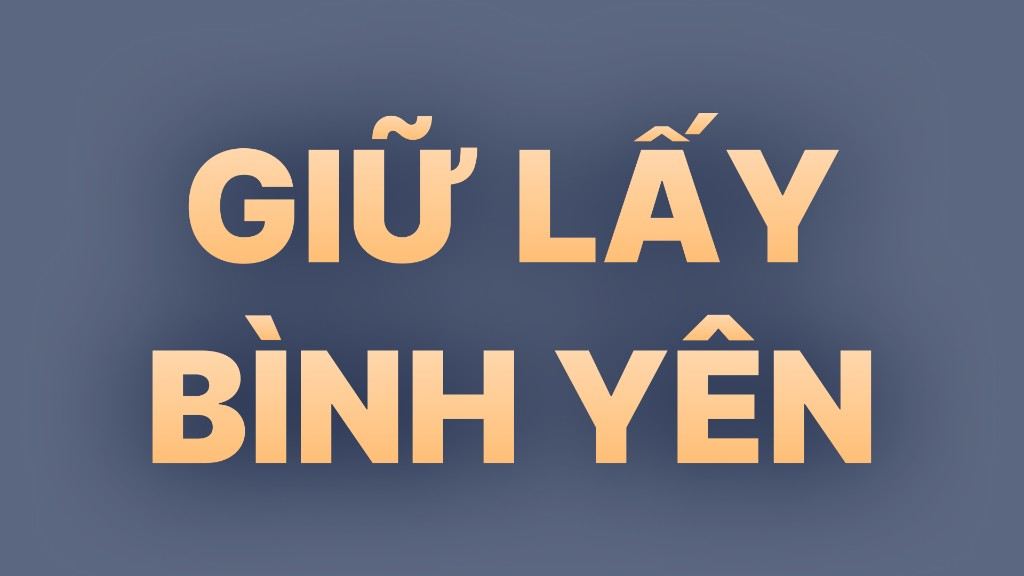
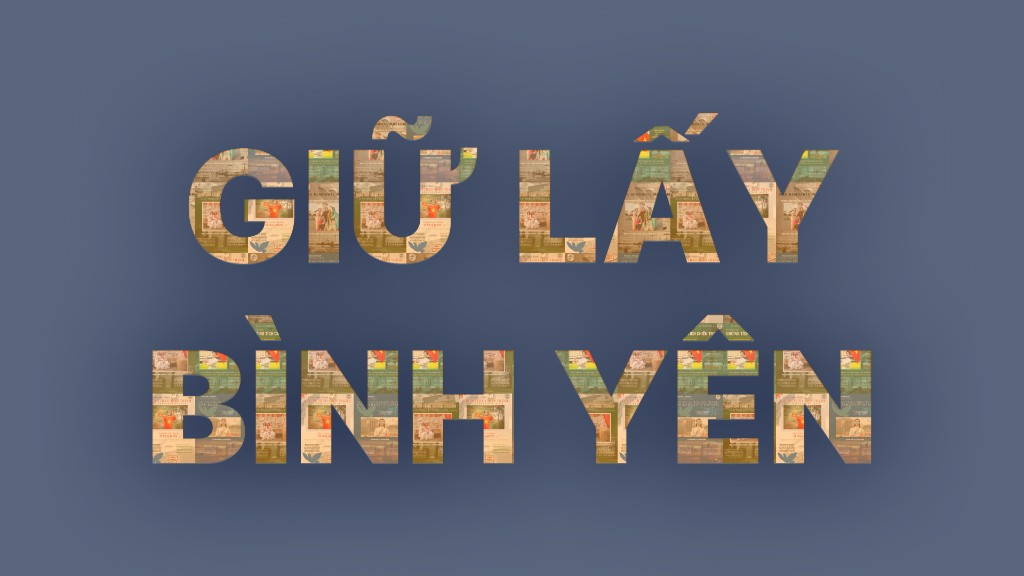
:sd1

diff --git a/components/WallBlendPanel.tsx b/components/WallBlendPanel.tsx
@@ -26,7 +26,7 @@ type Props = { apiUploadToken: string };
 export function WallBlendPanel({ apiUploadToken }: Props) {
   const { data, error, isLoading, mutate } = useSWR<WallTextPayload>("/api/wall-text", fetcher);
   const [blend, setBlend] = useState<WallGraphicBlendMode>(WALL_GRAPHIC_DEFAULT_BLEND);
-  /** 0–100 % hiển thị trên thanh trượt; lưu file dạng 0–1. */
+  /** 0–100 %; lưu file dạng 0–1. */
   const [opacityPct, setOpacityPct] = useState(90);
   const [status, setStatus] = useState<string | null>(null);
   const [saving, setSaving] = useState(false);
@@ -84,10 +84,11 @@ export function WallBlendPanel({ apiUploadToken }: Props) {
   }
 
   return (
-    <div className="flex w-full max-w-xl flex-col gap-3 rounded-xl border border-zinc-800 bg-zinc-900/80 p-4 text-sm text-zinc-200">
+    <div className="flex w-full max-w-xl flex-col gap-3 border border-zinc-800 bg-zinc-900/80 p-4 text-sm text-zinc-200">
       <div className="font-medium text-zinc-100">Watermark ảnh overlay (tường /wall)</div>
       <p className="text-xs text-zinc-500">
-        Thứ tự trên tường: lưới ảnh nền toàn màn → khung 16:9 → nền trong khung → ảnh watermark với{" "}
+        Thứ tự trên tường: lưới ảnh nền toàn màn → lớp watermark <strong>full màn</strong> (nền mờ + ảnh{" "}
+        <code className="text-zinc-400">object-cover</code>) với{" "}
         <code className="text-zinc-400">mix-blend-mode</code> và độ mờ bạn chọn.
       </p>
       <label className="flex flex-col gap-1 text-xs text-zinc-400">
@@ -98,7 +99,7 @@ export function WallBlendPanel({ apiUploadToken }: Props) {
             const v = e.target.value;
             if (isWallGraphicBlendMode(v)) setBlend(v);
           }}
-          className="max-w-md rounded-lg border border-zinc-700 bg-zinc-950 px-3 py-2 text-zinc-100"
+          className="max-w-md border border-zinc-700 bg-zinc-950 px-3 py-2 text-zinc-100"
         >
           {WALL_GRAPHIC_BLEND_MODE_CHOICES.map((m) => (
             <option key={m} value={m}>
@@ -107,22 +108,26 @@ export function WallBlendPanel({ apiUploadToken }: Props) {
           ))}
         </select>
       </label>
-      <label className="flex flex-col gap-2 text-xs text-zinc-400">
-        <span>Độ mờ watermark ({opacityPct}%)</span>
+      <label className="flex flex-col gap-1 text-xs text-zinc-400">
+        <span>Độ mờ watermark (0–100%)</span>
         <input
-          type="range"
+          type="number"
           min={0}
           max={100}
           step={1}
           value={opacityPct}
-          onChange={(e) => setOpacityPct(Number(e.target.value))}
-          className="max-w-md accent-emerald-600"
+          onChange={(e) => {
+            const n = Math.round(Number(e.target.value));
+            if (!Number.isFinite(n)) return;
+            setOpacityPct(Math.min(100, Math.max(0, n)));
+          }}
+          className="max-w-[8rem] border border-zinc-700 bg-zinc-950 px-3 py-2 text-zinc-100"
         />
       </label>
       <button
         type="button"
         disabled={saving || !data}
-        className="self-start rounded-lg bg-emerald-800 px-4 py-2 font-medium text-white hover:bg-emerald-700 disabled:opacity-50"
+        className="self-start border border-emerald-700 bg-emerald-800 px-4 py-2 font-medium text-white hover:bg-emerald-700 disabled:opacity-50"
         onClick={() => void saveBlend()}
       >
         {saving ? "Đang lưu…" : "Lưu watermark"}

diff --git a/components/WallGraphicBlend.tsx b/components/WallGraphicBlend.tsx
@@ -12,33 +12,24 @@ type Props = {
 /**
  * Luồng hiển thị:
  * 1. Lưới ảnh nền (PhotoWall, lớp z-0).
- * 2. Khung 16:9 giữa màn hình — `isolate` để blend chỉ trong khung.
- * 3. Nền trong khung (màu/độ mờ) trên vùng lưới.
- * 4. Ảnh watermark đè lên + `mix-blend-mode` và opacity từ `/api/wall-text` (upload).
+ * 2. Lớp watermark full màn (`inset-0`), `isolate` để blend gọn trong vùng tường.
+ * 3. Nền trong lớp (mờ trên lưới).
+ * 4. Ảnh watermark phủ toàn màn + `mix-blend-mode` và opacity (upload).
  */
 export function WallGraphicBlend({ blendMode, overlayOpacity }: Props) {
   return (
     <div
       aria-hidden
-      className="wall-watermark-root pointer-events-none absolute inset-0 z-[1] flex items-center justify-center"
+      className="wall-watermark-root pointer-events-none absolute inset-0 z-[1] min-h-0 min-w-0"
     >
-      <div
-        className="wall-watermark-frame relative isolate overflow-hidden rounded-xl shadow-2xl ring-1 ring-white/15"
-        style={{
-          width: "min(100vw, calc(100vh * 16 / 9))",
-          height: "min(100vh, calc(100vw * 9 / 16))",
-          maxWidth: 1920,
-          maxHeight: 1080,
-        }}
-      >
-        {/* Bước 1 — nền trong khung (trên lưới ảnh toàn màn phía dưới) */}
+      <div className="wall-watermark-frame relative isolate h-full w-full min-h-0 min-w-0 overflow-hidden">
+        {/* Nền trong lớp — full màn */}
         <div
           className="wall-watermark-frame-bg absolute inset-0 bg-[#0b1020]/75"
           style={{ boxShadow: "inset 0 0 72px rgba(0,0,0,0.5)" }}
         />
-        {/* Bước 2 — ảnh watermark + blend (cấu hình upload) */}
         <div
-          className="wall-watermark-art absolute inset-0"
+          className="wall-watermark-art absolute inset-0 min-h-0 min-w-0"
           style={{
             mixBlendMode: blendMode,
             opacity: overlayOpacity,
@@ -48,7 +39,7 @@ export function WallGraphicBlend({ blendMode, overlayOpacity }: Props) {
           <img
             src={WALL_GRAPHIC_URL}
             alt=""
-            className="absolute inset-0 h-full w-full object-contain"
+            className="absolute inset-0 h-full w-full min-h-0 min-w-0 object-cover"
             draggable={false}
             decoding="async"
           />

diff --git a/lib/wallGraphicUrls.ts b/lib/wallGraphicUrls.ts
@@ -1,5 +1,5 @@
 /** Ảnh overlay trên tường (một file trong `public/wall-overlays/`). */
-export const WALL_GRAPHIC_URL = "/wall-overlays/deplam-hoabinh.png";
+export const WALL_GRAPHIC_URL = "/wall-overlays/giu-lay-binh-yen.png";
 
 /** Độ mờ mặc định lớp overlay / watermark ảnh (0–1); có thể chỉnh trên trang upload. */
 export const WALL_GRAPHIC_OVERLAY_OPACITY = 0.9;

diff --git a/components/PhotoWall.tsx b/components/PhotoWall.tsx
@@ -222,7 +222,7 @@ export function PhotoWall() {
           ))}
         </div>
 
-        {/* Lớp trên: khung 16:9 → nền trong khung → watermark + blendMode (WallGraphicBlend) */}
+        {/* Lớp trên: watermark full màn — nền mờ + ảnh + blendMode */}
         <WallGraphicBlend blendMode={graphicBlendMode} overlayOpacity={graphicOverlayOpacity} />
 
         {hero ? (
